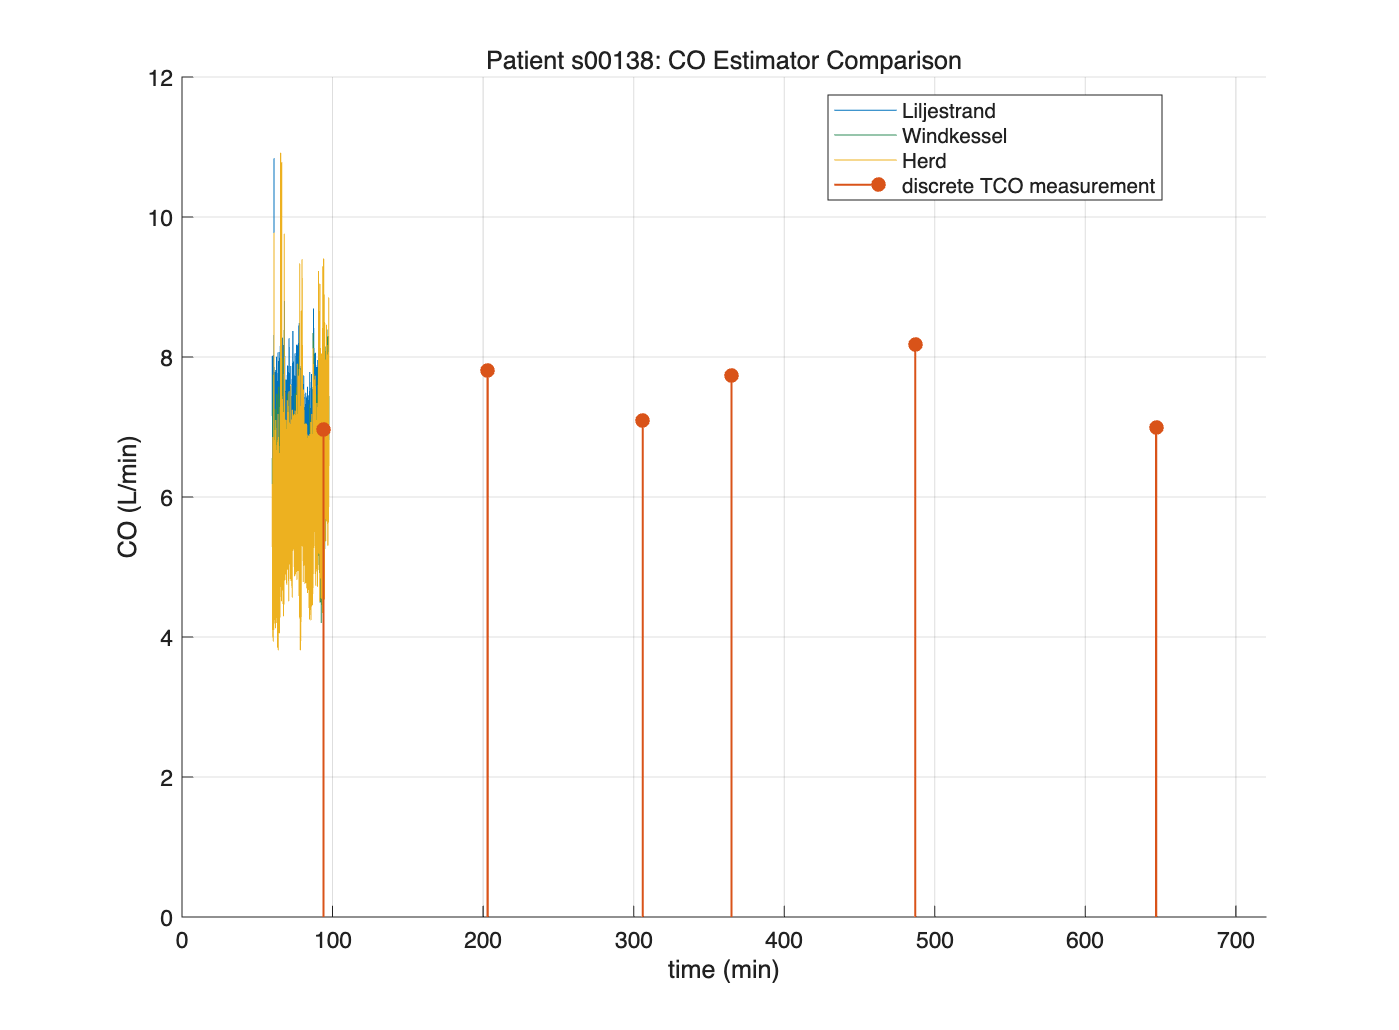
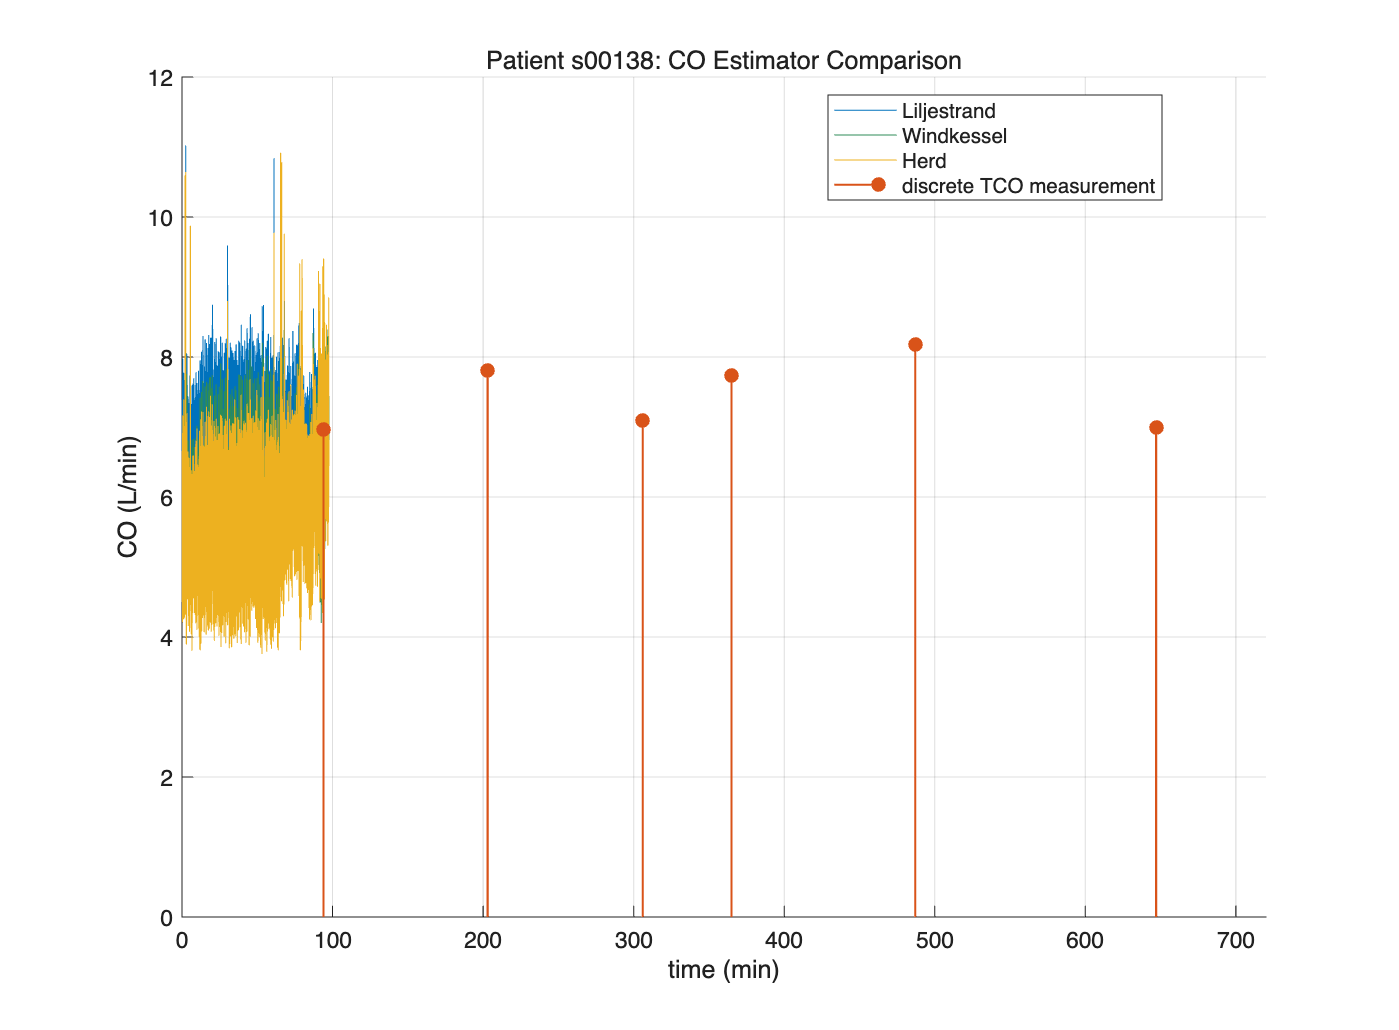
Change PE formula and nearest interpolation

Changed region(s): [[0.1229, 0.2175, 0.2152, 0.6214]]

diff --git a/Group19_COProject_Q4.m b/Group19_COProject_Q4.m
@@ -8,7 +8,7 @@ addpath('PhysioToolkitCardiacOutput_MatlabCode/2analyze');
 addpath('PhysioToolkitCardiacOutput_MatlabCode/3estimate');
 
 Patients = {'s00020','s00138','s00214'};
-StartHours = [0,1,1];
+StartHours = [0,0,0];
 DurationHours = [12,12,12];
 
 EstimatorIDs = [5,2,6];
@@ -85,7 +85,7 @@ for p = 1:3
         CO_cal = k*CO;
 
         % Compare CO estimates with TCO measurements
-        CO_at_TCO = interp1(t_CO,CO_cal,time_TCO_valid,'linear',NaN);
+        CO_at_TCO = interp1(t_CO,CO_cal,time_TCO_valid,'nearest',NaN);
 
         % Exclude calibration point and missing estimates
         valid = ~isnan(CO_at_TCO) & (time_TCO_valid ~= t_first_valid);
@@ -100,7 +100,7 @@ for p = 1:3
             Bias = mean(error);
             RMSE = sqrt(mean(error.^2));
             MAE = mean(abs(error));
-            PercentageError = mean(abs(error)./TCO_valid(valid))*100;
+            PercentageError = 100*std(error)/mean(TCO_valid(valid));
         end
 
         fprintf('%s - %s\n',Patients{p},EstimatorNames{a});
